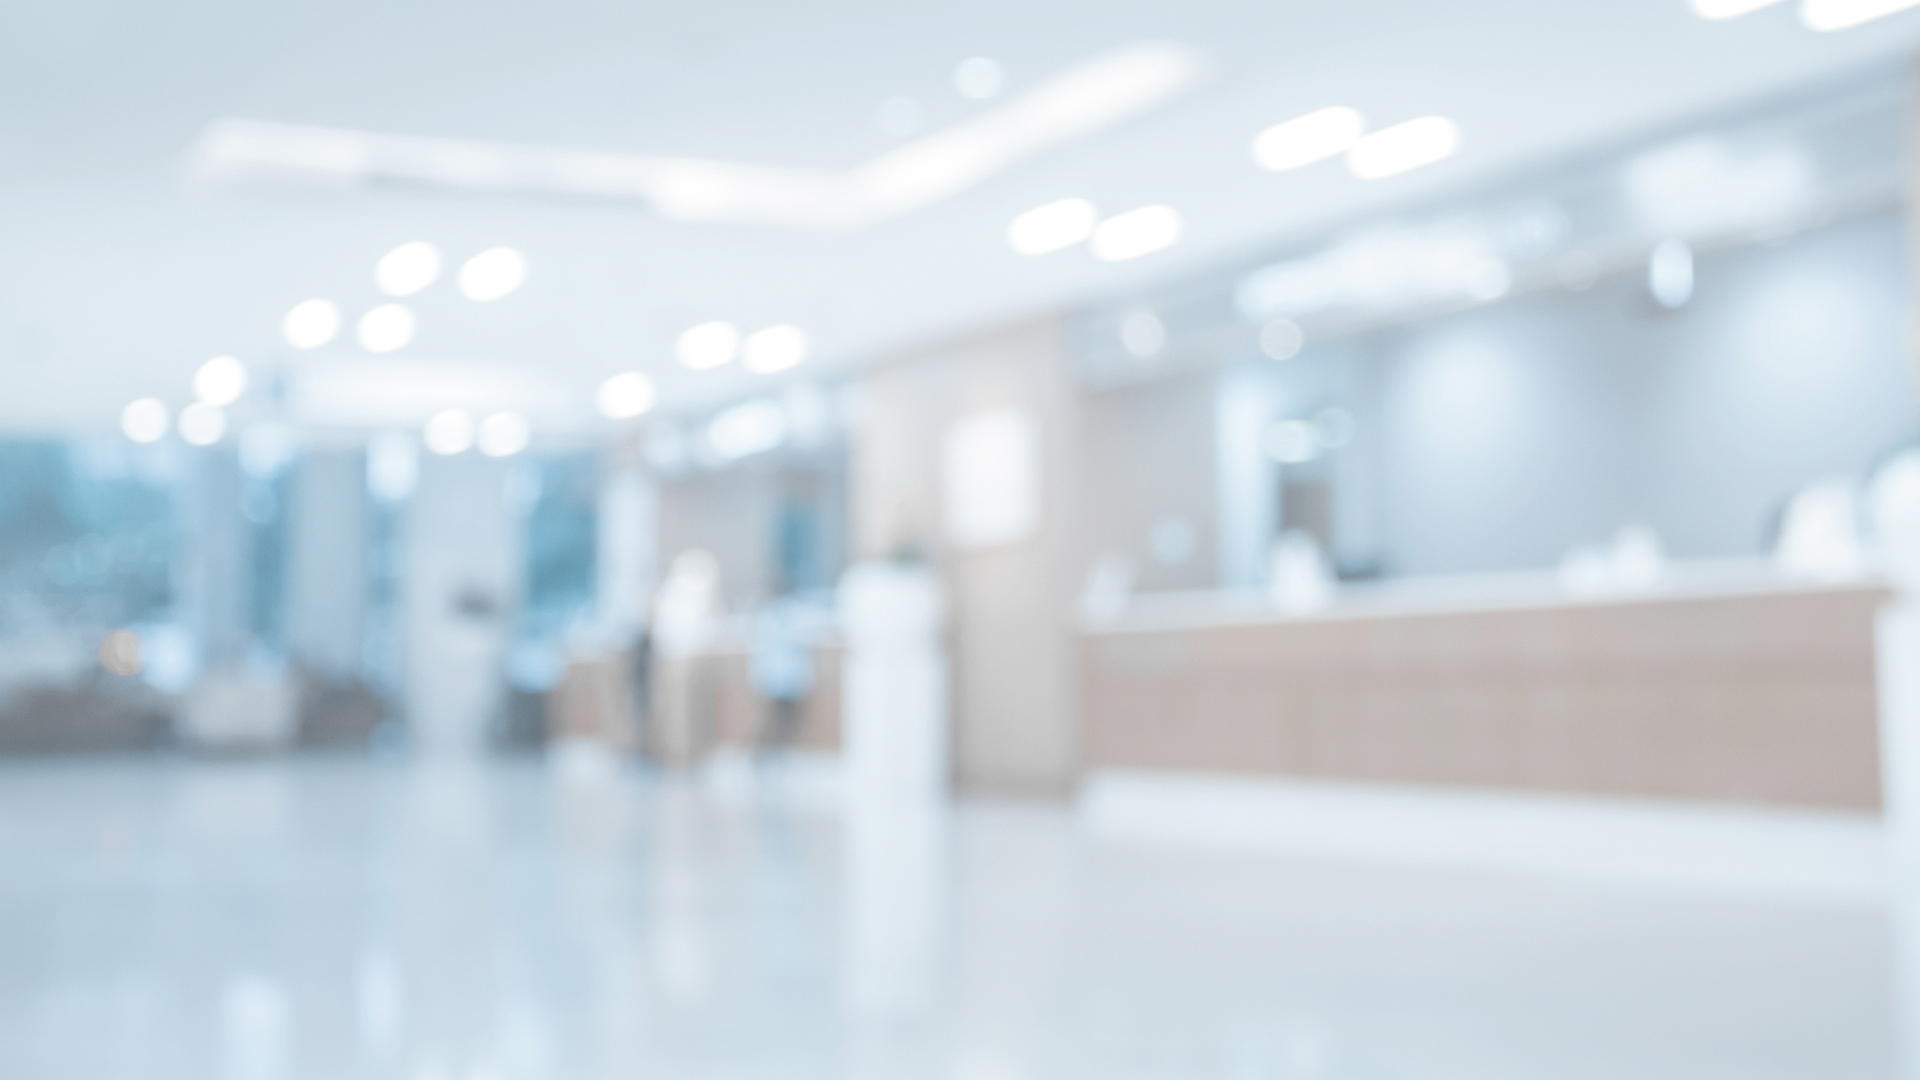
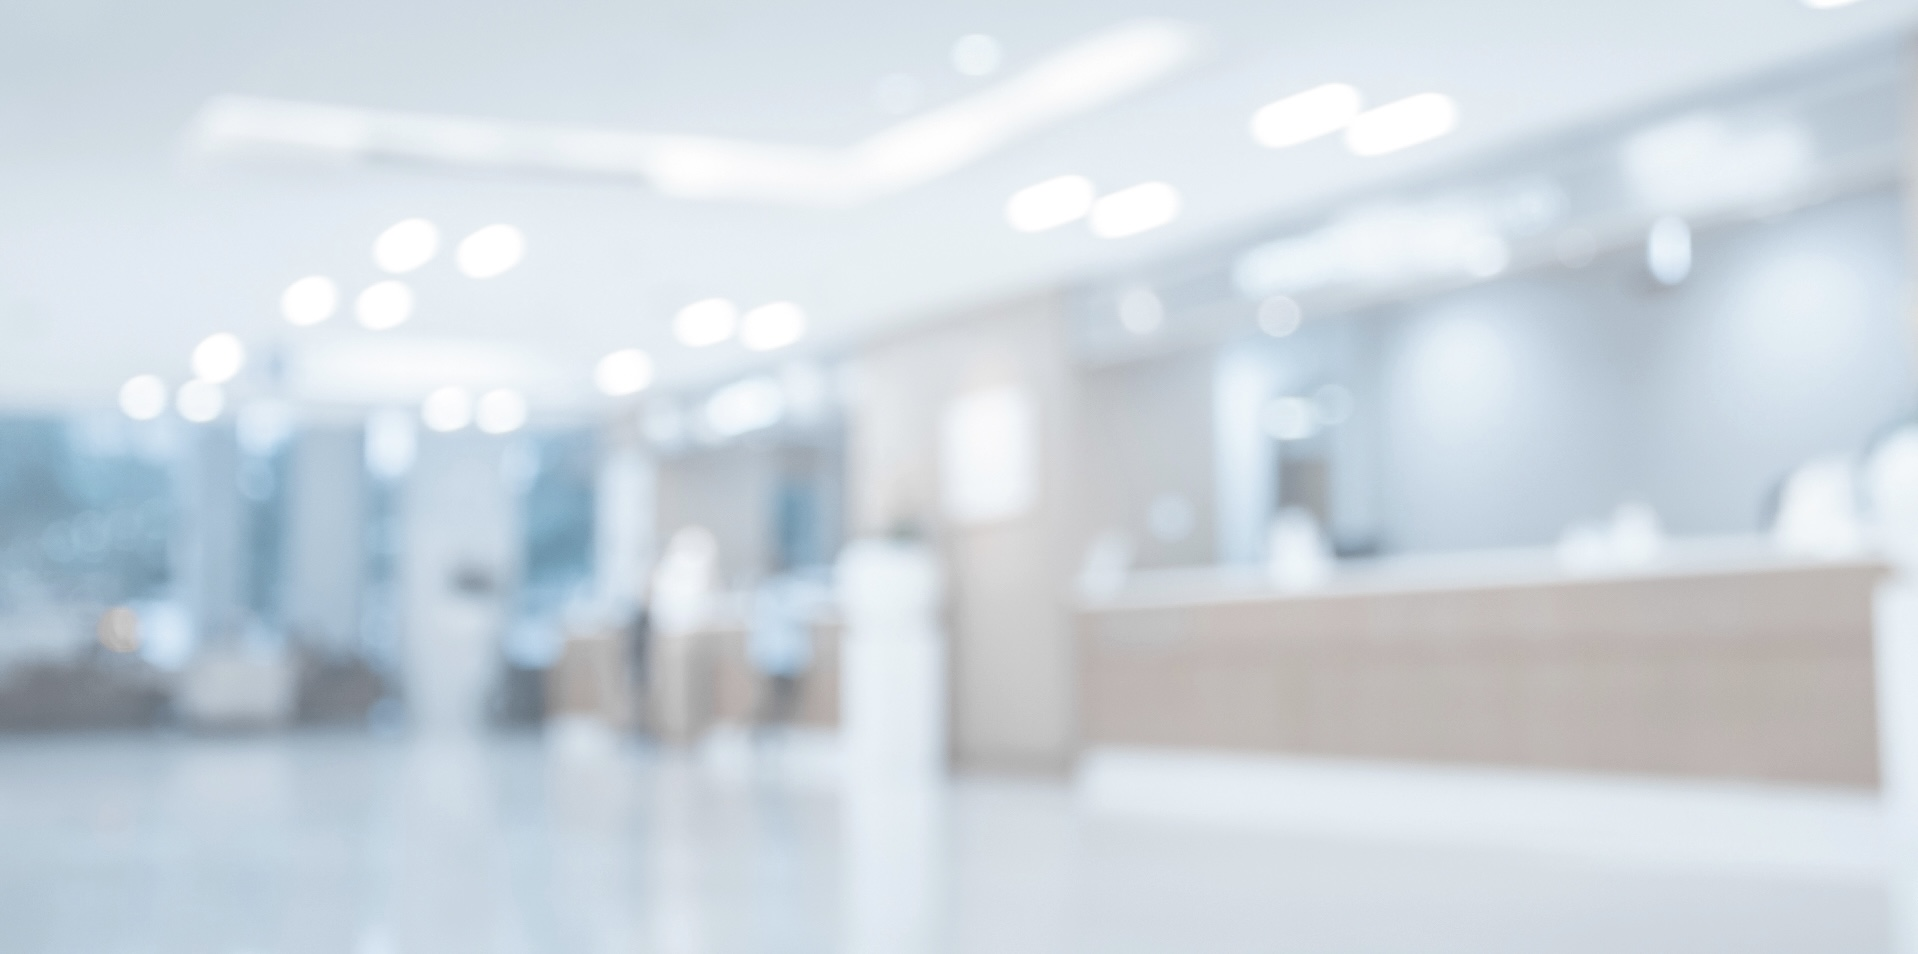
[fix]ロゴデザインの変更

diff --git a/src/src/app/about/page.tsx b/src/src/app/about/page.tsx
@@ -6,7 +6,7 @@ export default function About() {
       <p className="text-6xl text-gray-600 font-black font-zenmaru">ABOUT US</p>
       <p className="text-xl mt-2 text-gray-400">私たちについて</p>
       <p className="text-2xl mt-10 mr-10 text-gray-600">
-        「株式会社たば」は2023年2月にHiroki1238によって設立されたポートフォリオサイトです。株式会社たばは「毎日楽しい」を目標に、こだわりを持って開発したサービスを提供しています。複数あるサービスを通じて、誰もが自由に楽しく生きていける社会を目指します。
+        「株式会社たば」は2023年9月にHiroki1238によって設立されたポートフォリオサイトです。株式会社たばは「毎日楽しい」を目標に、こだわりを持って開発したサービスを提供しています。複数あるサービスを通じて、誰もが自由に楽しく生きていける社会を目指します。
       </p>
       <div className="mb-36"></div>
 
@@ -18,13 +18,13 @@ export default function About() {
         <div className="border-b-2 my-3">株式会社たば</div>
 
         <div className="border-b-2 my-3 text-center">設立</div>
-        <div className="border-b-2 my-3">2023年2月2日</div>
+        <div className="border-b-2 my-3">2023年9月1日</div>
 
         <div className="border-b-2 my-3 text-center">代表取締社長</div>
         <div className="border-b-2 my-3">たば ひろき</div>
 
         <div className="border-b-2 my-3 text-center">資本金</div>
-        <div className="border-b-2 my-3">10万円（2023年1月時点）</div>
+        <div className="border-b-2 my-3">10万円（2023年9月時点）</div>
 
         <div className="border-b-2 my-3 text-center">所在地</div>
         <div className="border-b-2 my-3">〒286-0023 千葉県成田市成田1番地</div>
@@ -41,27 +41,31 @@ export default function About() {
         </p>
         <p className="text-xl mt-2 text-gray-400">沿革</p>
         <div className="text-2xl mt-10 text-gray-600 grid grid-cols-3 w-full">
-          <div className="border-b-2 my-3 text-center">2023年</div>
+          <div className="border-b-2 my-3 text-center">2022年</div>
           <div className="border-b-2 my-3 text-center">9月</div>
           <div className="border-b-2 my-3">
-            レバテックカレッジ 入社
+            レバテックカレッジ 入社（インターン）
           </div>
-
-          <div className="border-b-2 my-3 text-center">2022年</div>
-          <div className="border-b-2 my-3 text-center">9月</div>
-          <div className="border-b-2 my-3">就職活動開始</div>
-
-          <div className="border-b-2 my-3 text-center">2022年</div>
-          <div className="border-b-2 my-3 text-center">11月</div>
-          <div className="border-b-2 my-3">就職先決定</div>
 
           <div className="border-b-2 my-3 text-center">2023年</div>
           <div className="border-b-2 my-3 text-center">9月</div>
-          <div className="border-b-2 my-3">会津大学 卒業（予定）</div>
+          <div className="border-b-2 my-3">会津大学 卒業</div>
+
+          <div className="border-b-2 my-3 text-center">2023年</div>
+          <div className="border-b-2 my-3 text-center">9月</div>
+          <div className="border-b-2 my-3">WED株式会社 入社（インターン）</div>
 
           <div className="border-b-2 my-3 text-center">2024年</div>
           <div className="border-b-2 my-3 text-center">4月</div>
-          <div className="border-b-2 my-3">WED株式会社 入社（予定）</div>
+          <div className="border-b-2 my-3">WED株式会社 入社（正社員）</div>
+
+          <div className="border-b-2 my-3 text-center">2024年</div>
+          <div className="border-b-2 my-3 text-center">?月</div>
+          <div className="border-b-2 my-3">???</div>
+
+          <div className="border-b-2 my-3 text-center">2024年</div>
+          <div className="border-b-2 my-3 text-center">?月</div>
+          <div className="border-b-2 my-3">???</div>
         </div>
       </div>
 

diff --git a/src/src/app/news/page.tsx b/src/src/app/news/page.tsx
@@ -1,21 +1,29 @@
 import Image from "next/image";
+import NewsItem from "@/components/news/Item";
 
-export default function About() {
+export default function News() {
   return (
     <div className="mt-16 w-5/7 mr-auto ml-auto">
-      <p className="text-6xl text-gray-600 font-black font-zenmaru">NEWS</p>
-      <p className="text-xl mt-2 text-gray-400">ニュース</p>
-      <div className="mt-20 flex">
-        <div>
-        <p className="text-md mt-2 text-gray-500 mb-2">2022.08.26</p>
-        <p className="text-xl text-gray-600">「技育CAMPハッカソン」に参加、優秀賞を受賞</p>
-        <p className="bg-gray-200 text-gray-400 rounded mt-1 px-2 inline-block mr-2">ハッカソン</p>
-        </div>
-        <img src="./image/news001.jpg" className="border border-gray-300 rounded-xl w-2/5"/>
-      </div>
-      <div className="mb-36"></div>
+      <div className="mt-16 mr-auto ml-auto">
+        <p className="text-6xl text-gray-600 font-black font-zenmaru">NEWS</p>
+        <p className="text-xl mt-2 text-gray-400">ニュース</p>
 
-      <div className="mb-36">.....</div>
-    </div>
+        <div className="mb-36"></div>
+        <NewsItem
+          date="2022.08.26"
+          title="「技育CAMPハッカソン」に参加、優秀賞を受賞"
+          category="ハッカソン"
+          img="./image/news001.jpg"
+        />
+
+        <NewsItem
+          date="2022.08.26"
+          title="「技育CAMPハッカソン」に参加、優秀賞を受賞"
+          category="ハッカソン"
+          img="./image/news001.jpg"
+        />
+        </div>
+        <div className="mb-36">.....</div>
+      </div>
   );
 }

diff --git a/src/src/app/service/page.tsx b/src/src/app/service/page.tsx
@@ -1,0 +1,40 @@
+import ServiceItem from "@/components/services/Item";
+import Image from "next/image";
+
+export default function Service() {
+  return (
+    <div className="mt-16 w-5/7 mr-auto ml-auto">
+      <p className="text-6xl text-gray-600 font-black font-zenmaru">SERVICE</p>
+      <p className="text-xl mt-2 text-gray-400">サービス</p>
+      <div className="mt-20 flex justify-center">
+        <div className="w-service mr-6">
+          <ServiceItem
+            img="./image/news001.jpg"
+            description="夏休みの宿題撃退アプリ"
+            title="小学生の味方"
+          />
+          <div className="mt-8">
+            <a className="py-3 px-5 text-xl bg-transparent border-2 border-slate-700 hover:border-transparent rounded-xl hover:bg-slate-700 text-slate-700 hover:text-white">
+              サービスサイトへ
+            </a>
+          </div>
+        </div>
+        <div className="w-service ml-6">
+          <ServiceItem
+            img="./image/news001.jpg"
+            description="ライブ会場のレビューサイト"
+            title="raion"
+          />
+          <div className="mt-8">
+            <a className="py-3 px-5 text-xl bg-transparent border-2 border-slate-700 hover:border-transparent rounded-xl hover:bg-slate-700 text-slate-700 hover:text-white">
+              サービスサイトへ
+            </a>
+          </div>
+        </div>
+      </div>
+      <div className="mb-36"></div>
+
+      <div className="mb-36">.....</div>
+    </div>
+  );
+}

diff --git a/src/src/app/page.tsx b/src/src/app/page.tsx
@@ -6,13 +6,20 @@ export default function Home() {
   return (
     <div>
       <div>
-        <img src="./image/office.jpg" className="w-full" />
+        <img src="./image/office.jpg" className="w-full h-auto" />
+        {/* <Image
+          src="/image/office.jpg"
+          width={1000}
+          height={1000}
+          alt="Picture of an office"
+          style={{ width: '100%', height: 'auto' }} // なぜかImageタグだと画質が悪くなる（tailwindの書き方にはなっていない）
+        /> */}
       </div>
 
       <div className="w-5/7 mr-auto ml-auto">
         <Item
           title="ABOUT"
-          message="「株式会社たば」は2023年2月にHiroki1238によって設立されたポートフォリオサイトです。"
+          message="「株式会社たば」は2023年9月にHiroki Tabaによって設立されたポートフォリオサイトです。"
           button="会社概要"
           path="/about"
           img="./image/city.jpg"
@@ -29,7 +36,7 @@ export default function Home() {
         <Item
           title="RECRUIT"
           message="少しでも興味をお持ちいただけたら、ぜひエントリーしてみてください。"
-          button="サービス一覧"
+          button="採用情報"
           path="/about"
           img="./image/employees.jpg"
         />

diff --git a/src/src/app/layout.tsx b/src/src/app/layout.tsx
@@ -20,13 +20,13 @@ export default function RootLayout({
       <body>
         <section className="font-kosugimaru">
           {/* フォント指定 */}
-          <header className="bg-white h-10 pb-32">
+          <header className="bg-gray-150 h-10 pb-32">
             <nav className="pt-12 flex">
               <Link
                 href="/"
                 className="mr-6 no-underline text-2xl text-gray-500 hover:text-gray600"
               >
-                株式会社たば（ロゴを設置）
+              <img src="./image/logo-kokutetsu.png" className="w-64 h-auto ml-5" /> {/* フォントカラーは#0b81a8 */}
               </Link>
 
               <div className="ml-auto">
@@ -38,7 +38,7 @@ export default function RootLayout({
                 </Link>
 
                 <Link
-                  href="/"
+                  href="/service"
                   className="mr-6 no-underline text-2xl text-gray-500 hover:text-gray600"
                 >
                   サービス
@@ -59,7 +59,7 @@ export default function RootLayout({
                 </Link>
 
                 <Link
-                  href="/"
+                  href="/recruit"
                   className="mr-16 no-underline text-2xl text-gray-500 hover:text-gray600"
                 >
                   採用情報

diff --git a/src/src/components/news/Item.tsx b/src/src/components/news/Item.tsx
@@ -1,0 +1,35 @@
+"use client";
+import { useRouter } from "next/navigation";
+import Link from "next/link";
+
+interface NewsItemProps {
+  title: string;
+  category: string;
+  img: string;
+  date: string;
+}
+
+const NewsItem: React.FC<NewsItemProps> = (props) => {
+  const { date, title, category, img } = props;
+  const router = useRouter();
+
+  return (
+    <div className="mb-20 flex">
+      <div className="mr-20">
+        <p className="text-lg mt-2 text-gray-500 mb-2">{date}</p>
+        <p className="text-2xl text-gray-600">
+          {title}
+        </p>
+        <p className="bg-gray-200 text-gray-400 rounded mt-1 px-2 inline-block mr-2">
+          {category}
+        </p>
+      </div>
+      <img
+        src={img}
+        className="border border-gray-300 rounded-xl w-2/5"
+      />
+    </div>
+  );
+};
+
+export default NewsItem;

diff --git a/src/src/components/services/Item.tsx b/src/src/components/services/Item.tsx
@@ -1,0 +1,27 @@
+"use client";
+import { useRouter } from "next/navigation";
+import Link from "next/link";
+
+interface ServiceItemProps {
+img: string;
+description: string;
+title: string;
+}
+
+const ServiceItem: React.FC<ServiceItemProps> = (props) => {
+  const { img, description, title } = props;
+  const router = useRouter();
+
+  return (
+    <div className="mr-6">
+      <img
+        src={img}
+        className="border border-gray-300 rounded-xl aspect-service object-cover"
+      />
+      <p className="mt-4 text-xl">{description}</p>
+      <p className="mt-5 text-3xl">{title}</p>
+    </div>
+  );
+};
+
+export default ServiceItem;

diff --git a/src/tailwind.config.js b/src/tailwind.config.js
@@ -24,7 +24,9 @@ module.exports = {
                '1/7': '14.2857143%',
                '2/7': '28.5714286%',
                '3/7': '42.8571429%',
+               'service': '50%',
                '4/7': '57.1428571%',
+               '3/5': '60%',
                '5/8': '62.5%',
                '5/7': '71.4285714%',
                '7/9': '77.7777777%',
@@ -34,6 +36,7 @@ module.exports = {
 
              aspectRatio: {
               'slideshow': '7/5',
+              'service': '7/5',
             },
     },
   },

diff --git a/src/src/app/recruit/page.tsx b/src/src/app/recruit/page.tsx
@@ -1,0 +1,10 @@
+import Image from "next/image";
+
+export default function Recruit() {
+  return (
+    <div className="mt-16 w-5/7 mr-auto ml-auto">
+      <p className="text-6xl text-gray-600 font-black font-zenmaru">RECRUIT</p>
+      <p className="text-xl mt-2 text-gray-400">採用情報</p>
+    </div>
+  );
+}
